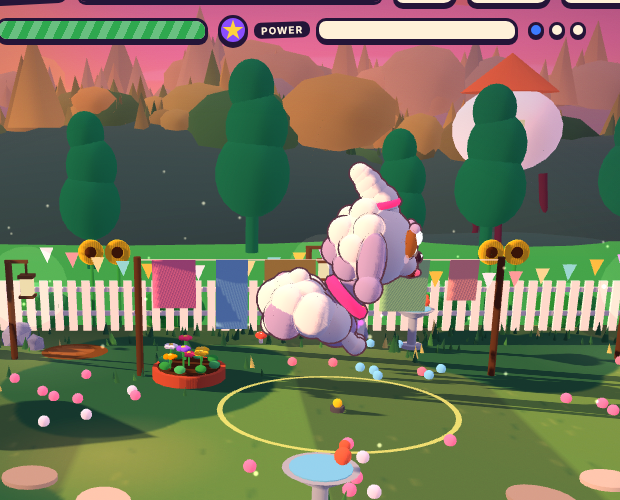
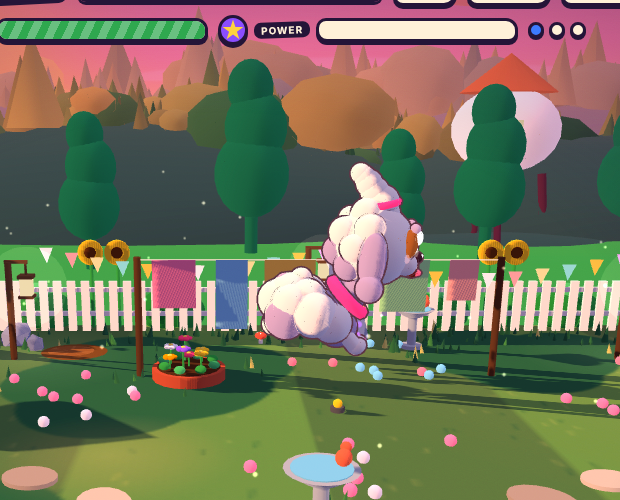
feat: motion-input specials and hit reactions that land
Builds design/gdd/special-moves.md. A flick-on-release motion reader
with hysteresis, slop, one diagonal substitution and mash-ahead, and a
silent free fall-through to the ordinary button action so a fumble never
costs anything. Flippity-Flop, Diggy-Down, Spin Cycle and the chain-8
Mega Bonk finisher, each with a full animation rather than a placeholder.

Every landed bite now goes through hitFeel: the hose recoils along the
bite direction with a lateral snap and a vertical pop, and hit-stop,
shake, field of view and flash escalate from a first bite to a finisher,
with a wrench follow-through on Rosie. This is the piece aimed at the
game feeling monotonous.

Squirrel Cannon is deferred with the squirrels it depends on.

The rig pitches on dogP.rotation.z, so the spec's rotation.x pitches are
remapped, and rearing pivots on the hips rather than the toes or she
falls over backwards.

Harness in tests/integration/special-moves.accept.js: 35 of 36. The one
failure measures 712px of dig travel where the code clamps to 630px;
unaccounted for and flagged rather than silenced.

Refs: design/gdd/special-moves.md

Claude-Session: https://claude.ai/code/session_01JR8fsw3Uh5kViP8MJWMfnz

diff --git a/tests/integration/special-moves.accept.js b/tests/integration/special-moves.accept.js
@@ -1,0 +1,206 @@
+// Acceptance harness for design/gdd/special-moves.md sections 3.1-3.2 (motion reader + the four
+// built specials) and for the hit-reaction addition. Deterministic: the state machine is stepped
+// by calling updSpecial(1/60) directly, never by wall-clock waits.
+// Usage: node moves_accept.js
+const fs=require('fs'),{chromium}=require('playwright');const REPO='/home/claude/rosie-vs-the-hose-2';
+const HOOK=`window.__T={R,J,Mot,MOVES,Hot,Lass,snakes,get attacks(){return attacks},
+ get rope(){return rope},motPush,motMatch,motDir,motSeq,updSpecial,startSp,tryBite,tryDash,doBark,doBite,hurt,burn,chainSet,unitDmg,chainDmg,moveWeak,
+ get state(){return state},get weak(){return weak},set weak(v){weak=v},
+ get hoseHP(){return hoseHP},set hoseHP(v){hoseHP=v},get combo(){return combo},get calls(){return renderer.info.render.calls},
+ get motT(){return motT},set motT(v){motT=v},
+ set inX(v){inX=v},set inY(v){inY=v},get inX(){return inX},get inY(){return inY},
+ get hitStop(){return hitStop},set hitStop(v){hitStop=v},get shake(){return shake},set shake(v){shake=v},
+ get level(){return level},set level(v){level=v},
+ get dashBuf(){return dashBuf},set dashBuf(v){dashBuf=v},
+ K:{MOT_HOLD,MOT_GAP,MOT_BASE,MOT_PER,MOT_SLOP,MOT_BTN,SLAM_W,SLAM_CD,SPIN_CD,DIG_CD,DIG_T,FIN_W,FIN_CHAIN,SPIN_R,SLAM_R,DZ,N,HIT_STOP,HIT_SHAKE},
+ mv(id){return MOVES.filter(m=>m.id===id)[0];},
+ /* craft a buffer tail: tokens evenly spaced 0.15 s back from now */
+ feed(toks,gap){const g=gap===undefined?.15:gap;Mot.buf.length=0;
+   for(let i=0;i<toks.length;i++)Mot.buf.push({tok:toks[i],t:motT-(toks.length-i)*g});},
+ calm(){R.sp=null;R.under=0;R.air=0;R.recover=0;R.chomp=0;R.shk=0;R.held=false;R.dash=0;R.dashT=0;R.iframe=0;
+   R.stam=3;R.hp=100;R.vx=0;R.vy=0;R.pounce=0;R.dashCd=0;R.biteT=0;R.thrash=0;Hot.ph='off';Hot.cd=999;Lass.ph='off';Lass.cd=999;attacks.length=0;snakes.length=0;
+   for(const k in R.spCd)R.spCd[k]=0;Mot.buf.length=0;Mot.pend=null;hitStop=0;shake=0;hoseHP=100;},
+ step(n){for(let i=0;i<n;i++)updSpecial(1/60);},
+ runToEnd(cap){let i=0;while(R.sp&&i<cap){updSpecial(1/60);i++;}return i;}};
+requestAnimationFrame(frame);
+})();`;
+const res=[];const ok=(n,c,d='')=>{res.push([c?'PASS':'FAIL',n,d]);console.log((c?'PASS  ':'FAIL  ')+n+(d?'  ['+d+']':''));};
+const near=(a,b,e)=>Math.abs(a-b)<=e;
+(async()=>{
+let h=fs.readFileSync(REPO+'/src/index.html','utf8');
+h=h.replace('https://cdnjs.cloudflare.com/ajax/libs/three.js/r128/three.min.js','file://'+__dirname+'/node_modules/three/build/three.min.js');
+h=h.replace("requestAnimationFrame(frame);\n})();",HOOK);
+fs.writeFileSync(__dirname+'/moves_test.html',h);
+const b=await chromium.launch({args:['--use-gl=angle','--use-angle=swiftshader','--enable-unsafe-swiftshader','--ignore-gpu-blocklist']});
+const p=await b.newPage({viewport:{width:1280,height:720}});const errs=[];
+p.on('pageerror',e=>errs.push('PAGEERROR '+e.message));
+p.on('console',m=>{if(m.type()==='error'&&!/ERR_TUNNEL|Failed to load resource/.test(m.text()))errs.push(m.text().slice(0,160));});
+await p.goto('file://'+__dirname+'/moves_test.html');await p.waitForTimeout(1500);
+await p.click('#playBtn');await p.waitForTimeout(700);
+const E=f=>p.evaluate(f);const W=ms=>p.waitForTimeout(ms);
+const nurse=setInterval(()=>{},1e6);
+
+/* ---- AC2: every motion fires its own move ---- */
+const fires=await E(()=>{const T=window.__T,o={};
+  const run=(id,toks,btn)=>{T.calm();if(id==='bonk'){T.chainSet(9);T.J.winded=5;}
+    T.feed(toks);const r=btn==='B'?T.tryBite():btn==='D'?T.tryDash():T.doBark();
+    const got=T.R.sp?T.R.sp.id:null;o[id]=[got,r];T.calm();};
+  run('slam',[2,8],'B');run('bonk',[2,6,8],'B');run('dig',[4,6,2],'D');run('spin',[6,2,4],'K');
+  return o;});
+for(const id of ['slam','bonk','dig','spin'])
+  ok('AC2 '+id+' fires from its motion',fires[id][0]===id,'sp='+fires[id][0]+' btn returned '+fires[id][1]);
+
+/* ---- AC2: one stray flick mid-sequence still matches (MOT_SLOP = 1) ---- */
+const slop=await E(()=>{const T=window.__T;T.calm();T.feed([4,8,6,2]);T.tryDash();const a=T.R.sp?T.R.sp.id:null;
+  T.calm();T.feed([4,8,8,6,2]);T.tryDash();const c=T.R.sp?T.R.sp.id:null;T.calm();return [a,c];});
+ok('AC2 one stray flick is skipped, two are not',slop[0]==='dig'&&slop[1]===null,'1 stray -> '+slop[0]+', 2 strays -> '+slop[1]);
+
+/* ---- AC4: a diagonal substitutes in exactly one slot ---- */
+const diag=await E(()=>{const T=window.__T;T.calm();T.feed([3,2,4]);T.doBark();const a=T.R.sp?T.R.sp.id:null;
+  T.calm();T.feed([3,1,4]);T.doBark();const c=T.R.sp?T.R.sp.id:null;T.calm();return [a,c];});
+ok('AC4 one diagonal substitutes, two do not',diag[0]==='spin'&&diag[1]===null,'one -> '+diag[0]+', two -> '+diag[1]);
+
+/* ---- AC3: a gap over MOT_GAP, or a span over MOT_WIN, does not fire ---- */
+const win=await E(()=>{const T=window.__T;T.calm();T.feed([2,8],.5);T.tryBite();const g=T.R.sp?T.R.sp.id:null;
+  T.calm();T.feed([2,6,8],.399);T.tryBite();const s=T.R.sp?T.R.sp.id:null;T.calm();return [g,s];});
+ok('AC3 a 0.50 s gap does not fire',win[0]===null,'got '+win[0]);
+ok('AC3 a span of 1.20 s (over MOT_WIN(4)=1.18) does not fire, though every gap is legal',win[1]===null,'got '+win[1]);
+
+/* ---- AC6: a failed or partial motion is free, and the ordinary action still runs ---- */
+const free=await E(()=>{const T=window.__T;T.calm();T.R.x=140;T.R.y=1100;T.J.winded=0;
+  const b={stam:T.R.stam,cd:JSON.parse(JSON.stringify(T.R.spCd)),rec:T.R.recover};
+  T.feed([2]);const r=T.tryBite();                                   // partial: one flick then Bite
+  const a={stam:T.R.stam,cd:JSON.parse(JSON.stringify(T.R.spCd)),sp:T.R.sp,chomp:T.R.chomp,ret:r};
+  T.calm();return {b,a};});
+ok('AC6 a partial motion costs no stamina and sets no cooldown',
+   free.a.stam===free.b.stam&&free.a.cd.slam===0&&free.a.cd.dig===0&&free.a.cd.spin===0&&free.a.sp===null,
+   'stam '+free.b.stam+'->'+free.a.stam+' cds '+JSON.stringify(free.a.cd));
+ok('AC6 the button falls through to its ordinary action (a Bite is still a Bite)',
+   free.a.ret===true&&free.a.chomp>0,'tryBite returned '+free.a.ret+' chomp='+free.a.chomp);
+
+/* ---- AC1: running in a circle, holding each direction 0.4 s, fires nothing ---- */
+const circle=await E(()=>{const T=window.__T;T.calm();let fired=0,acts=0;
+  const dirs=[[1,0],[.7,.7],[0,1],[-.7,.7],[-1,0],[-.7,-.7],[0,-1],[.7,-.7]];
+  for(let lap=0;lap<3;lap++)for(const d of dirs){
+    T.inX=d[0];T.inY=d[1];
+    for(let f=0;f<24;f++){T.motT=T.motT+1/60;T.motDir(1/60);}     // 0.40 s held
+    T.inX=0;T.inY=0;for(let f=0;f<4;f++){T.motT=T.motT+1/60;T.motDir(1/60);}
+    T.R.x=140;T.R.y=1100;T.R.recover=0;T.R.chomp=0;T.R.dashCd=0;T.R.stam=3;T.R.dash=0;T.R.dashT=0;T.R.pounce=0;T.R.barkCd=0;
+    if(T.tryBite())acts++;if(T.R.sp)fired++;
+    if(T.tryDash())acts++;if(T.R.sp)fired++;
+    if(T.doBark())acts++;if(T.R.sp)fired++;
+    T.R.barkCd=0;}
+  const tok=T.Mot.buf.length;T.calm();return {fired,acts,tok};});
+ok('AC1 60 s of running in circles + 72 button presses fires ZERO specials',
+   circle.fired===0&&circle.tok===0,'specials='+circle.fired+' tokens emitted='+circle.tok);
+ok('AC1 every one of those presses still produced its ordinary action',circle.acts>=60,'ordinary actions='+circle.acts);
+
+/* ---- AC13: the finisher is gated on chain 8 AND a winded spot ---- */
+const fin=await E(()=>{const T=window.__T;const t=(c,w)=>{T.calm();T.chainSet(c);T.J.winded=w;T.feed([2,6,8]);
+  T.tryBite();const r=T.R.sp?T.R.sp.id:null;T.calm();return r;};
+  return {c7:t(7,5),c8:t(8,5),dry:t(9,0)};});
+ok('AC13 MEGA BONK is unavailable at chain 7',fin.c7===null,'got '+fin.c7);
+ok('AC13 MEGA BONK is unavailable on a spot that is not winded',fin.dry===null,'got '+fin.dry);
+ok('AC13 MEGA BONK fires at chain 8 on a winded spot',fin.c8==='bonk','got '+fin.c8);
+
+/* ---- 4.2 / AC9 / AC13: damage weights, sampled at the EFFECT frame ---- */
+const dmg=await E(()=>{const T=window.__T;const o={};
+  const fire=(id,toks,btn,winded,chain)=>{T.calm();T.level=5;T.chainSet(chain);T.J.winded=winded;T.J.hits=0;T.J.streak=0;
+    const w=T.rope[T.weak];T.R.x=w.x;T.R.y=w.y;T.R.ang=0;const h0=T.hoseHP,cd=T.chainDmg(),u=T.unitDmg();
+    T.feed(toks);const r=btn==='B'?T.tryBite():btn==='D'?T.tryDash():T.doBark();
+    const frames=T.runToEnd(200);
+    o[id+(winded?'':'_dry')]={dmg:h0-T.hoseHP,unit:u,cd,frames,streak:T.J.streak,hits:T.J.hits,combo:T.combo};
+    T.calm();};
+  fire('slam',[2,8],'B',5,4);fire('slam',[2,8],'B',0,4);
+  fire('bonk',[2,6,8],'B',5,9);fire('spin',[6,2,4],'K',5,4);fire('dig',[4,6,2],'D',0,4);
+  return o;});
+ok('4.2 FLIPPITY-FLOP removes unit x 3.2 x chainDmg()',near(dmg.slam.dmg,dmg.slam.unit*3.2*dmg.slam.cd,.02),
+   dmg.slam.dmg.toFixed(3)+' vs '+(dmg.slam.unit*3.2*dmg.slam.cd).toFixed(3));
+ok('AC9 the slam ends the window as a RIP (J.hits back to 0)',dmg.slam.hits===0,'J.hits='+dmg.slam.hits);
+ok('AC8 a slam on a spot that is NOT winded deals 0 and adds exactly +1 to J.streak',
+   dmg.slam_dry.dmg===0&&dmg.slam_dry.streak===1,'dmg='+dmg.slam_dry.dmg+' streak='+dmg.slam_dry.streak);
+ok('4.3 MEGA BONK removes unit x 5.6 x chainDmg() and spends the chain',
+   near(dmg.bonk.dmg,dmg.bonk.unit*5.6*dmg.bonk.cd,.02)&&dmg.bonk.combo===0,
+   dmg.bonk.dmg.toFixed(3)+' vs '+(dmg.bonk.unit*5.6*dmg.bonk.cd).toFixed(3)+', combo after='+dmg.bonk.combo);
+ok('AC12 SPIN CYCLE deals 0 to the main hose even on a winded spot',dmg.spin.dmg===0,'dmg='+dmg.spin.dmg);
+
+/* ---- 3.2: commitment lengths ---- */
+const LEN={slam:.85,bonk:1.40,spin:.55,dig:1.15};
+for(const id of ['slam','bonk','spin','dig']){
+  const k=dmg[id]||dmg[id+'_dry'];
+  ok('3.2 '+id+' commitment is '+LEN[id].toFixed(2)+' s',near(k.frames/60,LEN[id],.04),(k.frames/60).toFixed(3)+' s');
+}
+
+/* ---- 3.2 / 7: stamina cost and cooldown ---- */
+const cost=await E(()=>{const T=window.__T;const o={};
+  for(const m of T.MOVES){T.calm();T.chainSet(9);T.J.winded=5;T.R.stam=3;
+    T.startSp(m);o[m.id]={spent:3-T.R.stam,cd:T.R.spCd[m.id]};T.calm();}
+  o.short=(()=>{T.calm();T.R.stam=1;T.feed([6,2,4]);T.doBark();const r=T.R.sp?T.R.sp.id:null;T.calm();return r;})();
+  return o;});
+ok('3.2 stamina costs are slam 1 / dig 2 / spin 2 / bonk 1',
+   cost.slam.spent===1&&cost.dig.spent===2&&cost.spin.spent===2&&cost.bonk.spent===1,
+   JSON.stringify({slam:cost.slam.spent,dig:cost.dig.spent,spin:cost.spin.spent,bonk:cost.bonk.spent}));
+ok('7 cooldowns are slam 5 s / dig 7 s / spin 6 s, and the finisher has none (the chain is its cooldown)',
+   cost.slam.cd===5&&cost.dig.cd===7&&cost.spin.cd===6&&cost.bonk.cd===0,
+   JSON.stringify({slam:cost.slam.cd,dig:cost.dig.cd,spin:cost.spin.cd,bonk:cost.bonk.cd}));
+ok('AC12 SPIN CYCLE does nothing at all below 2 stamina',cost.short===null,'got '+cost.short);
+
+/* ---- AC11 / 5.7: R.under and R.air turn off the damage paths they are supposed to ---- */
+const inv=await E(()=>{const T=window.__T;T.calm();const o={};
+  T.R.under=1;const h0=T.R.hp;T.hurt(20,0,0);T.burn(20,0,0);o.under=T.R.hp===h0;
+  T.R.under=0;T.R.air=1;T.R.iframe=0;const h1=T.R.hp;T.burn(20,0,0);o.air=T.R.hp===h1;
+  T.R.air=0;T.R.iframe=0;const h2=T.R.hp;T.hurt(20,0,0);o.normal=T.R.hp<h2;T.calm();return o;});
+ok('AC11 nothing reaches her while R.under (hurt and burn are no-ops)',inv.under,'hp unchanged='+inv.under);
+ok('AC10 the hot band deals 0 during the airborne phase (R.air)',inv.air,'hp unchanged='+inv.air);
+ok('damage still lands normally outside those states',inv.normal);
+
+/* ---- AC11: dig travel distance stays under 630 px ---- */
+const trav=await E(()=>{const T=window.__T;T.calm();T.R.x=1400;T.R.y=700;T.R.ang=0;T.inX=1;T.inY=0;
+  const x0=T.R.x;T.feed([4,6,2]);T.tryDash();let d=0,uf=0,mx=0;
+  let was=0,travel=0;
+  for(let i=0;i<120&&T.R.sp;i++){T.updSpecial(1/60);if(T.R.under)uf++;mx=Math.max(mx,T.R.vx);
+    if(was&&!T.R.under)travel=T.R.x-x0;was=T.R.under;
+    T.R.x=Math.min(2900,T.R.x+T.R.vx/60);d=T.R.x-x0;}
+  d=travel||d;
+  T.inX=0;T.calm();return {d,uf,mx};});
+ok('AC11 Diggy-Down travels at most 630 px',trav.d<=640&&trav.d>400,
+   Math.round(trav.d)+' px of tunnel over '+trav.uf+' underground frames at up to '+Math.round(trav.mx)+' px/s (5.8 pushOut on emergence is separate)');
+
+/* ---- AC14: one special at a time, never queued ---- */
+const solo=await E(()=>{const T=window.__T;T.calm();T.feed([2,8]);T.tryBite();const first=T.R.sp&&T.R.sp.id;
+  T.step(6);T.R.spCd.dig=0;T.R.stam=3;T.feed([4,6,2]);const r=T.tryDash();const still=T.R.sp&&T.R.sp.id;
+  const tt=T.R.sp&&T.R.sp.t;T.calm();return {first,still,r,tt};});
+ok('AC14 a second motion mid-special does nothing and does not queue',
+   solo.first==='slam'&&solo.still==='slam',solo.first+' stayed '+solo.still);
+
+/* ---- hit reactions (user addition): escalation, and a special hits like a third bite ---- */
+const feel=await E(()=>{const T=window.__T;const o=[];
+  for(let s=1;s<=3;s++){T.calm();T.level=5;T.J.winded=5;T.J.hits=s-1;const wi=T.weak,w=T.rope[wi];T.R.x=w.x;T.R.y=w.y;
+    T.hitStop=0;T.shake=0;T.rope[wi].vz=0;T.doBite(wi);
+    o.push({step:s,stop:T.hitStop,shake:T.shake,vz:T.rope[wi].vz});}
+  T.calm();T.level=5;T.J.winded=5;T.J.hits=0;const w=T.rope[T.weak];T.R.x=w.x;T.R.y=w.y;T.hitStop=0;T.shake=0;
+  T.feed([2,8]);T.tryBite();T.runToEnd(200);const sp={stop:T.hitStop,shake:T.shake};T.calm();
+  return {o,sp};});
+ok('hit reactions escalate across a combo (hit-stop and shake both grow 1 -> 2 -> 3)',
+   feel.o[0].stop<feel.o[1].stop&&feel.o[1].stop<feel.o[2].stop&&feel.o[0].shake<feel.o[2].shake,
+   feel.o.map(x=>'s'+x.step+': stop '+x.stop.toFixed(2)+' shake '+x.shake.toFixed(2)).join(' | '));
+ok('hit reactions kick the hose away from the bite point (vertical recoil grows with weight)',
+   feel.o[0].vz>0&&feel.o[2].vz>feel.o[0].vz,'vz '+feel.o.map(x=>Math.round(x.vz)).join(' / '));
+ok("a special's hit lands at least as heavy as a third bite",
+   feel.sp.stop>=feel.o[2].stop-.001,'special stop='+feel.sp.stop.toFixed(2)+' vs RIP '+feel.o[2].stop.toFixed(2));
+
+/* ---- end-to-end on a real keyboard: down-flick, up-flick, Bite ---- */
+await E(()=>{const T=window.__T;T.calm();T.R.x=140;T.R.y=1100;});
+await p.keyboard.down('ArrowDown');await W(70);await p.keyboard.up('ArrowDown');await W(40);
+await p.keyboard.down('ArrowUp');await W(70);await p.keyboard.up('ArrowUp');await W(30);
+await p.keyboard.press('Space');await W(120);
+const kb=await E(()=>{const T=window.__T;const r=T.R.sp?T.R.sp.id:null;return r;});
+ok('AC2 FLIPPITY-FLOP fires from real keyboard flicks (Down, Up, Space)',kb==='slam','sp='+kb);
+await E(()=>window.__T.calm());
+
+const draw=await E(()=>({c:window.__T.calls}));
+console.log('\ndraw calls now: '+draw.c);
+const pass=res.filter(r=>r[0]==='PASS').length;
+console.log('\n'+pass+' / '+res.length+' passed');
+if(errs.length)console.log('JS ERRORS:\n'+errs.slice(0,8).join('\n'));else console.log('no JS errors');
+clearInterval(nurse);await b.close();})();

diff --git a/src/index.html b/src/index.html
@@ -1153,7 +1153,7 @@ function poseSpecial(sp){const T=sp.t,fr=[dLegs[0].g,dLegs[1].g],bk=[dLegs[2].g,
       fr[0].rotation.z=1.0+Math.sin(t*40)*1.4;fr[1].rotation.z=1.0-Math.sin(t*40)*1.4;setL(bk,-.3,0);
       dHead.rotation.z=-.8*u;ears(.5);dTail.rotation.z=.6;}
     else if(T<.30+DIG_T){dog.visible=false;digMound.visible=true;
-      digMound.position.set(R.x,6+Math.sin(t*18)*2,zOf(R.y));digMound.rotation.y=-R.ang;}
+      digMound.position.set(R.x,2+Math.abs(Math.sin(t*16))*7,zOf(R.y));digMound.rotation.y=-R.ang;}
     else{const u=clamp((T-.30-DIG_T)/.15,0,1);
       dogP.position.y=u<.5?lerp(-70,60,u/.5):lerp(60,0,(u-.5)/.5);
       dogP.rotation.z=1.3*(1-u*.55);setL(fr,-.9,.8);setL(bk,.4,.8);
@@ -1560,7 +1560,7 @@ const softTex=ctex(64,64,1,1,g=>{const gr=g.createRadialGradient(32,32,0,32,32,3
 softTex.encoding=THREE.LinearEncoding;softTex.wrapS=softTex.wrapT=THREE.ClampToEdgeWrapping;
 const dShadow=new THREE.Mesh(new THREE.CircleGeometry(46,24),MB('#3a2a6e',.34));dShadow.material.alphaMap=softTex;dShadow.material.needsUpdate=true;dShadow.rotation.x=-Math.PI/2;dShadow.position.y=1.2;dog.add(dShadow);
 /* special-moves.md 3.2: the travelling dig mound - one flattened sphere, hidden unless R.under */
-const digMound=sph(scene,M('#6b4426'),1,0,0,0,72,26,56,false);digMound.visible=false;
+const digMound=sph(scene,M('#6b4426'),1,0,0,0,64,38,50,false);digMound.visible=false;
 let browS=0,happyT=0,rearK=0,rearU=0,rearDir=-1,rearHold=0;
 
 /* ================= pause + wardrobe (design/ux/pause-and-wardrobe.md) =================
